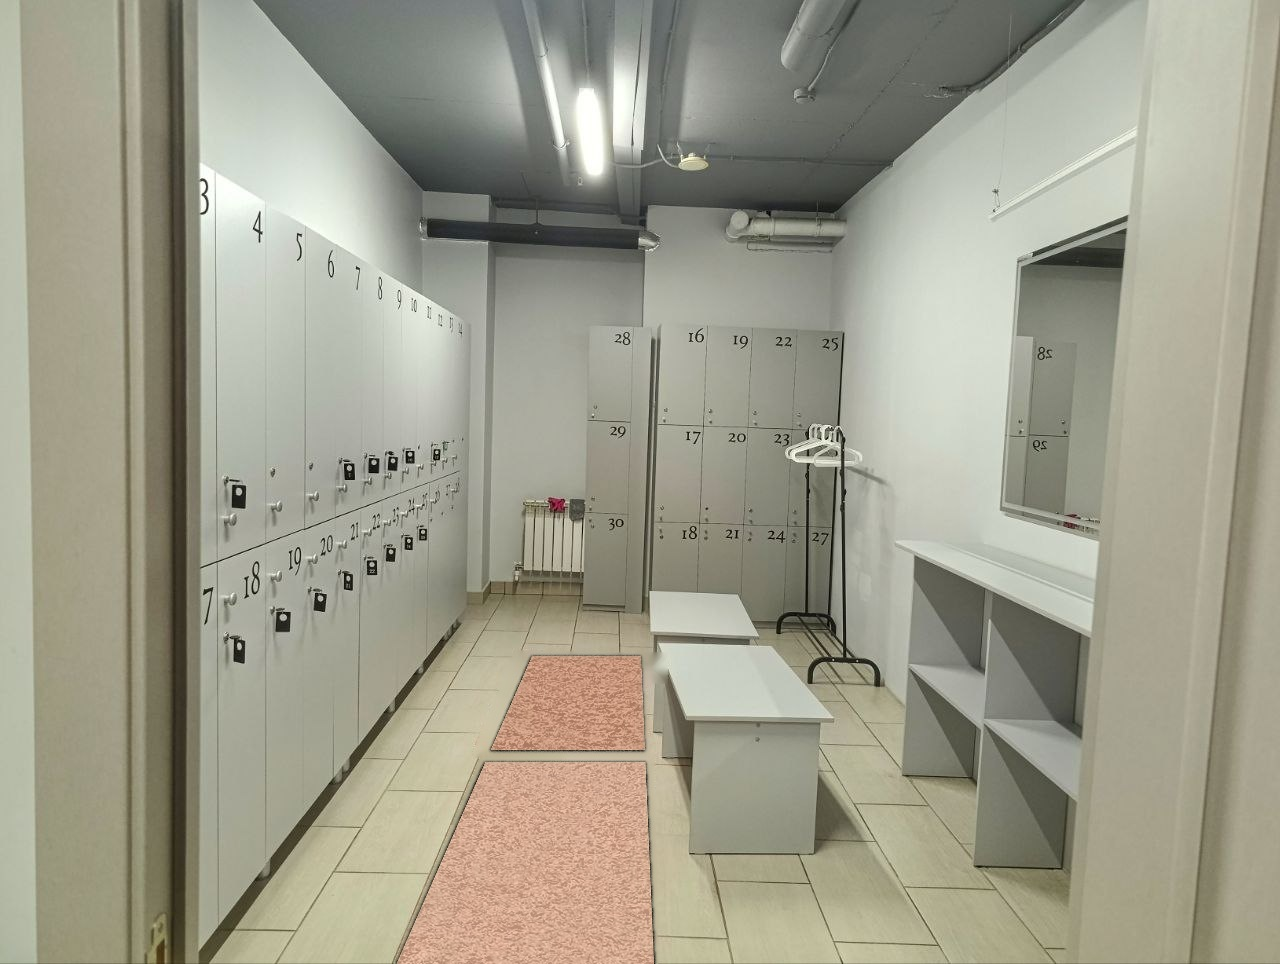
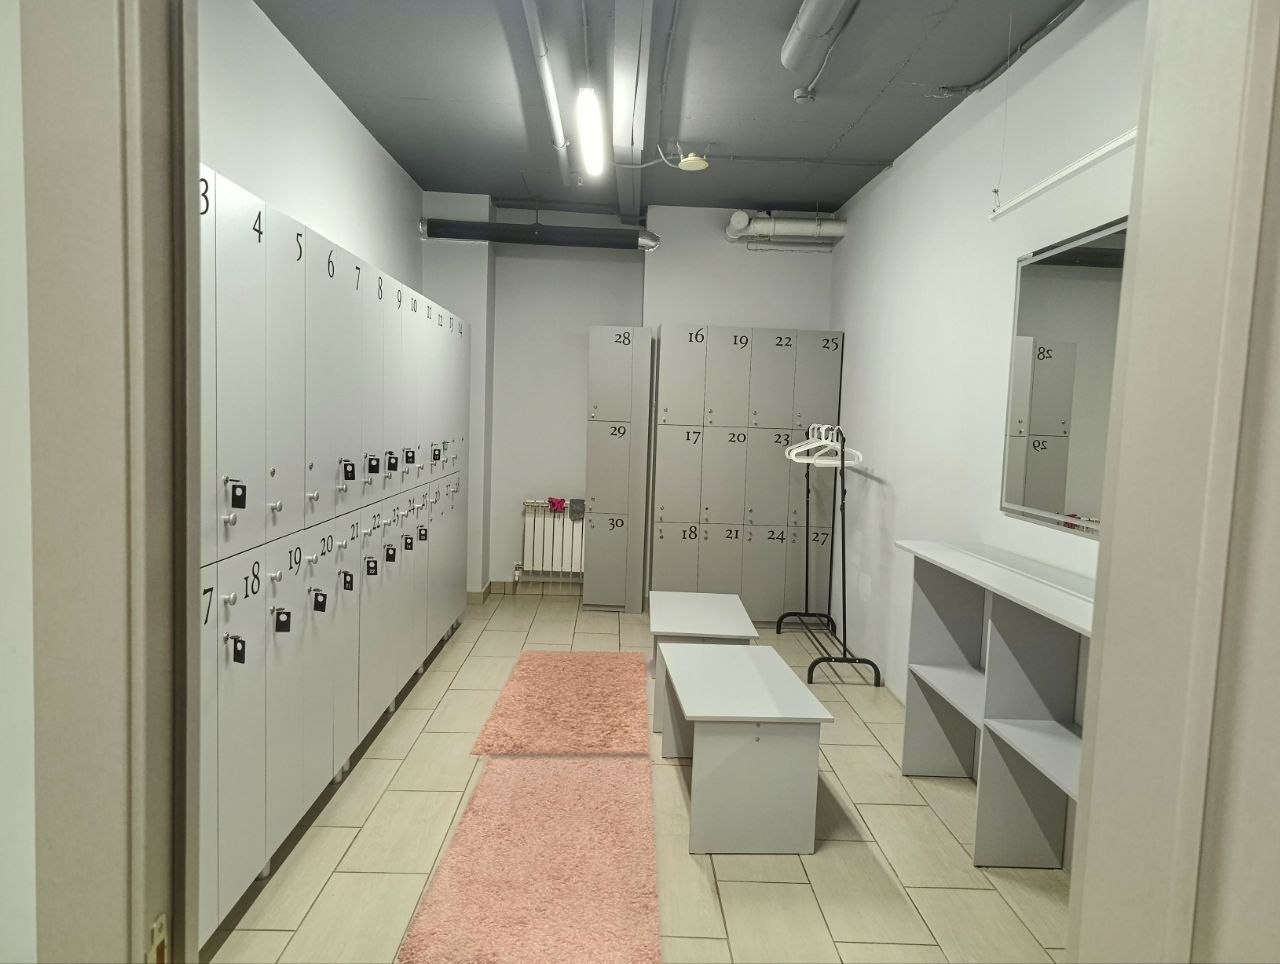
Коврики из настоящих пикселей без замыливания скамеек и плитки; первый экран без чёрного столба

Changed region(s): [[0.3125, 0.6535, 0.5312, 1.0]]

diff --git a/public/index.html b/public/index.html
@@ -55,7 +55,7 @@
   <!-- HERO: широкое фото на всю высоту экрана, текст слева, реальное фото зала справа -->
   <section class="hero">
     <div class="hero-media">
-      <img class="hero-photo" data-zoom="hall" data-full="img/hall-hero-v3.webp" src="img/hall-hero-v3.webp" srcset="img/hall-v3-640.webp 640w, img/hall-v3.webp 1280w, img/hall-hero-v3.webp 1616w" sizes="(max-width: 960px) 100vw, 66vw" width="1616" height="1216" fetchpriority="high"
+      <img class="hero-photo" data-zoom="hall" data-full="img/hall-hero-v4.webp" src="img/hall-hero-v4.webp" srcset="img/hall-hero-v4-640.webp 640w, img/hall-hero-v4.webp 1192w" sizes="(max-width: 960px) 100vw, 66vw" width="1192" height="1188" fetchpriority="high"
            alt="Зал: окна во всю стену с видом на город, роспись, розовые гамаки, светлый пол">
     </div>
 
@@ -225,7 +225,7 @@
     <ul class="slider" id="hallSlider" data-slider data-count="hallCount" tabindex="0" aria-label="Фото зала, листайте">
       <li class="slide"><img data-zoom="hall" data-full="img/hall-v3.webp" src="img/hall-v3.webp" srcset="img/hall-v3-640.webp 640w, img/hall-v3.webp 1280w" sizes="(max-width: 720px) 86vw, 760px" width="1280" height="964" loading="eager" alt="Основной зал: окна во всю стену, роспись на стене, розовые гамаки, светлый пол"><span class="slide-cap"><b>Основной зал</b><small>1 / 5</small></span></li>
       <li class="slide"><img data-zoom="hall" data-full="img/zone-v2.webp" src="img/zone-v2.webp" srcset="img/zone-v2-640.webp 640w, img/zone-v2.webp 1280w" sizes="(max-width: 720px) 86vw, 760px" width="1280" height="964" loading="lazy" alt="Стена зеркал, розовые гамаки и стеллажи с ковриками и роллами"><span class="slide-cap"><b>Зеркала и инвентарь</b><small>2 / 5</small></span></li>
-      <li class="slide"><img data-zoom="hall" data-full="img/lockers-v2.webp" src="img/lockers-v2.webp" srcset="img/lockers-v2-640.webp 640w, img/lockers-v2.webp 1280w" sizes="(max-width: 720px) 86vw, 760px" width="1280" height="964" loading="lazy" alt="Раздевалка: шкафчики с номерами и скамейки"><span class="slide-cap"><b>Раздевалка</b><small>3 / 5</small></span></li>
+      <li class="slide"><img data-zoom="hall" data-full="img/lockers-v3.webp" src="img/lockers-v3.webp" srcset="img/lockers-v3-640.webp 640w, img/lockers-v3.webp 1280w" sizes="(max-width: 720px) 86vw, 760px" width="1280" height="964" loading="lazy" alt="Раздевалка: шкафчики с номерами и скамейки"><span class="slide-cap"><b>Раздевалка</b><small>3 / 5</small></span></li>
       <li class="slide"><img data-zoom="hall" data-full="img/mirror-v2.webp" src="img/mirror-v2.webp" srcset="img/mirror-v2-640.webp 640w, img/mirror-v2.webp 1280w" sizes="(max-width: 720px) 86vw, 760px" width="1280" height="964" loading="lazy" alt="Зеркало с подсветкой и фен в раздевалке"><span class="slide-cap"><b>Зеркало и фен</b><small>4 / 5</small></span></li>
       <li class="slide"><img data-zoom="hall" data-full="img/reception.webp" src="img/reception.webp" srcset="img/reception-640.webp 640w, img/reception.webp 1280w" sizes="(max-width: 720px) 86vw, 760px" width="1280" height="964" loading="lazy" alt="Ресепшен и зона ожидания со скамейкой"><span class="slide-cap"><b>Ресепшен</b><small>5 / 5</small></span></li>
     </ul>
@@ -243,7 +243,7 @@
   <!-- HOW -->
   <section class="section how">
     <div class="how-photos">
-      <img class="how-a" data-zoom="hall" data-full="img/lockers-v2.webp" src="img/lockers-v2-640.webp" srcset="img/lockers-v2-640.webp 640w, img/lockers-v2.webp 1280w" sizes="(max-width: 960px) 70vw, 340px" width="1280" height="964" loading="lazy" alt="Раздевалка: шкафчики с номерами, скамейки, вешалка">
+      <img class="how-a" data-zoom="hall" data-full="img/lockers-v3.webp" src="img/lockers-v3-640.webp" srcset="img/lockers-v3-640.webp 640w, img/lockers-v3.webp 1280w" sizes="(max-width: 960px) 70vw, 340px" width="1280" height="964" loading="lazy" alt="Раздевалка: шкафчики с номерами, скамейки, вешалка">
       <img class="how-b" data-zoom="hall" data-full="img/mirror-v2.webp" src="img/mirror-v2-640.webp" width="1280" height="964" loading="lazy" alt="Зеркало с подсветкой и фен в раздевалке">
     </div>
     <div class="how-text">
@@ -289,7 +289,7 @@
     <div class="rules rules--photos">
       <div class="rules-photos">
         <img data-zoom="hall" data-full="img/mirror-v2.webp" src="img/mirror-v2-640.webp" width="1280" height="964" loading="lazy" alt="Зеркало с подсветкой и фен в раздевалке">
-        <img data-zoom="hall" data-full="img/lockers-v2.webp" src="img/lockers-v2-640.webp" width="1280" height="964" loading="lazy" alt="Раздевалка со шкафчиками">
+        <img data-zoom="hall" data-full="img/lockers-v3.webp" src="img/lockers-v3-640.webp" width="1280" height="964" loading="lazy" alt="Раздевалка со шкафчиками">
       </div>
       <div>
         <h3>В аренду входит</h3>

diff --git a/scripts/fix-rugs.py b/scripts/fix-rugs.py
@@ -1,96 +1,103 @@
 """
-Фото раздевалки: коврики «как новые» и ровно по линии коридора.
-Берём текстуру самих ковриков, чистим её (без тёмных пятен, ровный цвет), укладываем
-два прямых коврика по перспективе коридора, а открывшийся пол дорисовываем по соседним пикселям.
+Фото раздевалки: коврики ровно по линии коридора и посвежее.
+Берём настоящие пиксели каждого коврика и перспективно «выпрямляем» их в ровный прямоугольник
+по линиям коридора. Новые коврики чуть шире и полностью накрывают старые, поэтому пол и скамейки
+не дорисовываются (раньше из-за этого были мыльные пятна). Пол дорисовывается только в тонких
+щелях в пару пикселей и под розовой тапочкой у скамейки, точно по её контуру.
 Запуск: python scripts/fix-rugs.py  → public/img/lockers-v2.webp, lockers-v2-640.webp
 """
 import os
 import cv2
 import numpy as np
+from PIL import Image
 
 ROOT = os.path.join(os.path.dirname(os.path.abspath(__file__)), '..')
 src = cv2.imread(os.path.join(ROOT, 'docs', 'photos', 'lockers.jpg'))
-img = src.copy()
-H, W = img.shape[:2]
+H, W = src.shape[:2]
 
-# коврики на исходном фото (по сетке координат): дальний и ближний
+# коврики на исходном фото (по сетке координат)
 old_back = np.float32([[517, 653], [641, 656], [645, 757], [476, 754]])
 old_front = np.float32([[486, 753], [651, 756], [654, 964], [398, 964]])
 
-# точка схода коридора (по правому краю ковриков) и прямые линии новых ковриков
+# точка схода коридора; края новых ковриков идут по линиям к ней
 VP = np.array([631.0, 430.0])
-def on_line(x_bottom, y):
+def x_at(x_bottom, y):
     return x_bottom + (VP[0] - x_bottom) * (964 - y) / (964 - VP[1])
-LX, RX = 396.0, 654.0
-def quad(y0, y1):
-    return np.float32([[on_line(LX, y0), y0], [on_line(RX, y0), y0], [on_line(RX, y1), y1], [on_line(LX, y1), y1]])
-new_back = quad(656, 750)
-new_front = quad(762, 966)
-
-
-def rectify(q, w, h):
-    M = cv2.getPerspectiveTransform(q, np.float32([[0, 0], [w, 0], [w, h], [0, h]]))
-    return cv2.warpPerspective(src, M, (w, h), flags=cv2.INTER_CUBIC)
-
-
-def clean(tex):
-    """Чистая текстура: убрать тёмные пятна и серость, выровнять цвет, сохранить ворс."""
-    lab = cv2.cvtColor(tex, cv2.COLOR_BGR2LAB).astype(np.float32)
-    L, A, B = cv2.split(lab)
-    base = cv2.GaussianBlur(L, (0, 0), 18)                  # общее освещение
-    detail = L - base                                        # ворс
-    detail = np.clip(detail, -22, 24)                        # самые тёмные пятна срезаем, ворс оставляем
-    L2 = np.full_like(L, float(np.median(L)) + 7) + detail * 1.05  # ровный, чуть светлее тон + ворс
-    A2 = A * 0.5 + float(np.median(A)) * 0.5 + 2              # розовый ровнее, без серых пятен
-    B2 = B * 0.5 + float(np.median(B)) * 0.5
-    out = cv2.merge([np.clip(L2, 0, 255), np.clip(A2, 0, 255), np.clip(B2, 0, 255)]).astype(np.uint8)
-    return cv2.cvtColor(out, cv2.COLOR_LAB2BGR)
+def quad(lx, rx, y0, y1):
+    return np.float32([[x_at(lx, y0), y0], [x_at(rx, y0), y0], [x_at(rx, y1), y1], [x_at(lx, y1), y1]])
+new_back = quad(366, 661, 651, 756)    # накрывает старый дальний коврик целиком
+new_front = quad(398, 661, 755, 968)   # и ближний; коврики встык, как на исходном фото
 
 
 def inset(q, d):
-    """Четырёхугольник, сжатый к центру на d пикселей: в текстуру не попадает кромка и пол."""
+    """Четырёхугольник, сжатый к центру на d пикселей: в текстуру не попадают кромка и пол."""
     c0 = q.mean(axis=0)
     return np.float32([p + (c0 - p) / np.linalg.norm(c0 - p) * d for p in q])
 
 
-tex_front = clean(rectify(inset(old_front, 14), 320, 420))
-tex_back = clean(rectify(inset(old_back, 12), 320, 200))
+def freshen(img, mask):
+    """Мягко освежить ворс: высветлить тёмные пятна и пыль, не трогая сам рисунок ворса."""
+    lab = cv2.cvtColor(img, cv2.COLOR_BGR2LAB).astype(np.float32)
+    L, A, B = cv2.split(lab)
+    local = cv2.GaussianBlur(L, (0, 0), 10)
+    dark = np.minimum(L - local, 0)                    # только то, что темнее окружения
+    L = L - dark * 0.45 + 6                            # пятна светлее, весь коврик чуть светлее
+    A = A * 0.8 + float(np.median(A[mask > 0])) * 0.2 + 1.5   # розовый ровнее, без серых пятен
+    B = B * 0.8 + float(np.median(B[mask > 0])) * 0.2
+    out = cv2.merge([np.clip(L, 0, 255), np.clip(A, 0, 255), np.clip(B, 0, 255)]).astype(np.uint8)
+    return cv2.cvtColor(out, cv2.COLOR_LAB2BGR)
 
-# 1) убираем старые коврики и розовую тапочку у скамейки: дорисовываем пол
-mask = np.zeros((H, W), np.uint8)
+
+out = src.copy()
+
+# 1) розовая тапочка у скамейки: маска строго по цвету, дорисовка маленьким радиусом
+box = (628, 645, 672, 690)
+hsv = cv2.cvtColor(src, cv2.COLOR_BGR2HSV)
+pink = cv2.inRange(hsv, (140, 60, 120), (179, 255, 255)) | cv2.inRange(hsv, (0, 60, 120), (8, 255, 255))
+slipper = np.zeros((H, W), np.uint8)
+slipper[box[1]:box[3], box[0]:box[2]] = pink[box[1]:box[3], box[0]:box[2]]
+slipper = cv2.dilate(slipper, np.ones((3, 3), np.uint8), iterations=2)
+
+# 2) щели, где старый коврик выглядывает из-под нового (пара пикселей)
+old_mask = np.zeros((H, W), np.uint8)
+new_mask = np.zeros((H, W), np.uint8)
 for q in (old_back, old_front):
-    cv2.fillConvexPoly(mask, q.astype(np.int32), 255)
-cv2.rectangle(mask, (640, 655), (664, 680), 255, -1)        # тапочка
-mask = cv2.dilate(mask, np.ones((7, 7), np.uint8))
-floor = cv2.inpaint(img, mask, 9, cv2.INPAINT_TELEA)
+    cv2.fillConvexPoly(old_mask, q.astype(np.int32), 255)
+for q in (new_back, new_front):
+    cv2.fillConvexPoly(new_mask, q.astype(np.int32), 255)
+slivers = cv2.bitwise_and(old_mask, cv2.bitwise_not(cv2.erode(new_mask, np.ones((3, 3), np.uint8))))
+out = cv2.inpaint(out, cv2.bitwise_or(slivers, slipper), 3, cv2.INPAINT_TELEA)
 
-# 2) мягкая тень под ковриками
+# 3) лёгкая тень под ковриками
 shadow = np.zeros((H, W), np.float32)
 for q in (new_back, new_front):
     cv2.fillConvexPoly(shadow, (q + np.float32([2, 3])).astype(np.int32), 1.0)
-shadow = cv2.GaussianBlur(shadow, (0, 0), 3) * 0.10
-floor = (floor.astype(np.float32) * (1 - shadow[..., None])).astype(np.uint8)
+shadow = cv2.GaussianBlur(shadow, (0, 0), 3) * 0.08
+out = (out.astype(np.float32) * (1 - shadow[..., None])).astype(np.uint8)
 
-# 3) кладём чистые коврики по новым прямым линиям
-out = floor.copy()
-for tex, q in ((tex_back, new_back), (tex_front, new_front)):
-    h, w = tex.shape[:2]
-    M = cv2.getPerspectiveTransform(np.float32([[0, 0], [w, 0], [w, h], [0, h]]), q)
-    warped = cv2.warpPerspective(tex, M, (W, H), flags=cv2.INTER_CUBIC)
+# 4) настоящие коврики, выпрямленные по линиям коридора
+rng = np.random.default_rng(7)
+for old, new in ((old_back, new_back), (old_front, new_front)):
+    M = cv2.getPerspectiveTransform(inset(old, 5), new)
+    warped = cv2.warpPerspective(src, M, (W, H), flags=cv2.INTER_CUBIC, borderMode=cv2.BORDER_REFLECT)
     m = np.zeros((H, W), np.float32)
-    cv2.fillConvexPoly(m, q.astype(np.int32), 1.0)
-    # ворсистый край: мягкая граница с лёгким шумом, а не ровная линия
-    rng = np.random.default_rng(7)
-    m = cv2.GaussianBlur(m, (0, 0), 1.4)
+    cv2.fillConvexPoly(m, new.astype(np.int32), 1.0)
+    warped = freshen(warped, (m > 0).astype(np.uint8))
+    m = cv2.GaussianBlur(m, (0, 0), 1.1)
     edge = (m > 0.02) & (m < 0.98)
-    m[edge] = np.clip(m[edge] * (0.75 + 0.5 * rng.random(int(edge.sum()))), 0, 1)
+    m[edge] = np.clip(m[edge] * (0.8 + 0.4 * rng.random(int(edge.sum()))), 0, 1)   # ворсистый край
     m = m[..., None]
     out = (warped * m + out * (1 - m)).astype(np.uint8)
 
+# 5) стык ковриков: ближний чуть наезжает на дальний — тонкая мягкая тень по краю
+seam = np.zeros((H, W), np.float32)
+y = 755
+cv2.line(seam, (int(x_at(398, y)) + 2, y), (int(x_at(661, y)) - 2, y), 1.0, 3)
+seam = cv2.GaussianBlur(seam, (0, 0), 1.6) * 0.28
+out = (out.astype(np.float32) * (1 - seam[..., None])).astype(np.uint8)
+
 cv2.imwrite(os.path.join(ROOT, 'docs', 'photos', 'lockers-v2.jpg'), out, [cv2.IMWRITE_JPEG_QUALITY, 93])
-rgb = cv2.cvtColor(out, cv2.COLOR_BGR2RGB)
-from PIL import Image
-im = Image.fromarray(rgb)
-im.save(os.path.join(ROOT, 'public', 'img', 'lockers-v2.webp'), 'WEBP', quality=80, method=6)
-im.resize((640, round(H * 640 / W)), Image.LANCZOS).save(os.path.join(ROOT, 'public', 'img', 'lockers-v2-640.webp'), 'WEBP', quality=78, method=6)
-print('ok', im.size)
+im = Image.fromarray(cv2.cvtColor(out, cv2.COLOR_BGR2RGB))
+im.save(os.path.join(ROOT, 'public', 'img', 'lockers-v3.webp'), 'WEBP', quality=82, method=6)
+im.resize((640, round(H * 640 / W)), Image.LANCZOS).save(os.path.join(ROOT, 'public', 'img', 'lockers-v3-640.webp'), 'WEBP', quality=80, method=6)
+print('ok', im.size, 'щели:', int((slivers > 0).sum()), 'тапочка:', int((slipper > 0).sum()))
